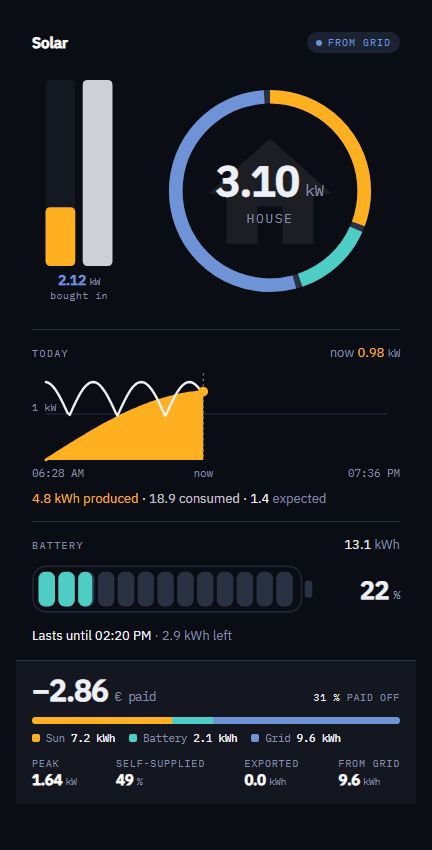
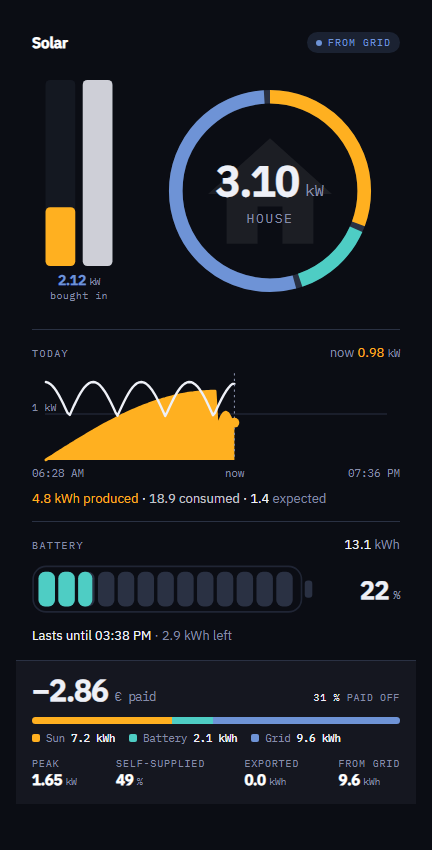
One flow, one colour
Power leaving for the grid was blue in the production ring, gold in the
surplus ring, and gold again in the column — the same kilowatts wearing two
colours depending on where you looked. That is the exact fault the old outer
production ring was thrown out for, and it had grown back in three places.

It is the grid colour everywhere now. Direction was never the colour-s job:
position carries it, and so does the word underneath.

A test reads the stylesheet and checks every selector that involves the grid,
the battery or the roof against its token, so the rule cannot quietly rot
again.

Claude-Session: https://claude.ai/code/session_01WYfcA1x3pZN41ubiYaXPxj

Changed region(s): [[0.4514, 0.4282, 0.5718, 0.5812], [0.2407, 0.7341, 0.3009, 0.7647], [0.1204, 0.8871, 0.1505, 0.9482]]

diff --git a/tests/colours.test.ts b/tests/colours.test.ts
@@ -1,0 +1,63 @@
+import { readFileSync } from "node:fs";
+import { describe, expect, it } from "vitest";
+
+const styles = readFileSync(new URL("../src/styles.ts", import.meta.url), "utf8");
+
+/** The colour token a selector paints with, or undefined when it paints none. */
+function tokenFor(selector: string): string | undefined {
+  // Selectors are grouped, so a rule may continue past a comma.
+  const at = [styles.indexOf(selector + " {"), styles.indexOf(selector + ",")]
+    .filter((index) => index >= 0)
+    .sort((x, y) => x - y)[0];
+  if (at === undefined) throw new Error("no rule for " + selector);
+  const block = styles.slice(at, styles.indexOf("}", at));
+  return block.match(/var\((--sst-[a-z]+)/)?.[1];
+}
+
+/**
+ * The card's one colour rule: the colour names the participant that is not the
+ * house, and the same kilowatts wear it wherever they appear. Direction is
+ * carried by position and by the word, never by a second hue — which is the
+ * fault the old outer production ring was thrown out for.
+ */
+describe("one participant, one colour", () => {
+  it("paints everything that involves the grid in the grid colour", () => {
+    for (const selector of [
+      ".seg.grid", // the ring: power coming from the grid, and going to it
+      ".seg.free", // the surplus ring: the spare part, which leaves for the grid
+      ".meter-on.grid", // the column: export, stepped
+      ".meter-band.grid", // the column: export, continuous
+      ".meter-on.import", // the column: import, stepped
+      ".meter-band.import", // the column: import, continuous
+      ".day-band.grid", // the day strip
+      ".clock-hour.grid" // the clock face
+    ]) {
+      expect(tokenFor(selector), selector).toBe("--sst-grid");
+    }
+  });
+
+  it("paints everything that involves the battery in the battery colour", () => {
+    for (const selector of [
+      ".seg.battery",
+      ".meter-on.battery",
+      ".meter-on.discharge",
+      ".meter-band.battery",
+      ".day-band.battery",
+      ".clock-hour.battery"
+    ]) {
+      expect(tokenFor(selector), selector).toBe("--sst-leaf");
+    }
+  });
+
+  it("paints everything that involves the roof in the sun colour", () => {
+    for (const selector of [
+      ".seg.solar",
+      ".seg.house", // the roof's own power, kept at home: the same sun, held back
+      ".day-band.solar",
+      ".clock-hour.solar",
+      ".bal-roof"
+    ]) {
+      expect(tokenFor(selector), selector).toBe("--sst-sun");
+    }
+  });
+});

diff --git a/src/styles.ts b/src/styles.ts
@@ -186,7 +186,7 @@ export const cardStyles = css`
   }
 
   .meter-band.grid {
-    fill: var(--sst-sun);
+    fill: var(--sst-grid);
   }
   .meter-band.battery,
   .meter-band.discharge {
@@ -201,7 +201,7 @@ export const cardStyles = css`
   }
 
   .meter-on.grid {
-    fill: var(--sst-sun);
+    fill: var(--sst-grid);
   }
 
   .meter-on.battery {
@@ -280,7 +280,7 @@ export const cardStyles = css`
   }
 
   .seg.free {
-    stroke: var(--sst-sun);
+    stroke: var(--sst-grid);
   }
 
   .seg.single {

diff --git a/docs/OPTIONS.md b/docs/OPTIONS.md
@@ -208,7 +208,7 @@ Get one wrong and the ring shows the wrong colour, which makes it obvious.
 
 ## Colours
 
-One rule throughout: **the colour names the participant that is not the house.** Sun is gold, battery green, grid blue, and the house itself neutral. The same kilowatts therefore wear the same colour wherever they appear — in the ring, in the column, in the origin bar and in the value list. There are no traffic lights, which would put a second meaning on the same scale.
+One rule throughout: **the colour names the participant that is not the house.** Direction is never a colour: power leaving for the grid and power drawn from it are both blue, and which way it is going is said by where it sits and by the word beside it. Sun is gold, battery green, grid blue, and the house itself neutral. The same kilowatts therefore wear the same colour wherever they appear — in the ring, in the column, in the origin bar and in the value list. There are no traffic lights, which would put a second meaning on the same scale.
 
 Override the accents per card or in a theme:
 
